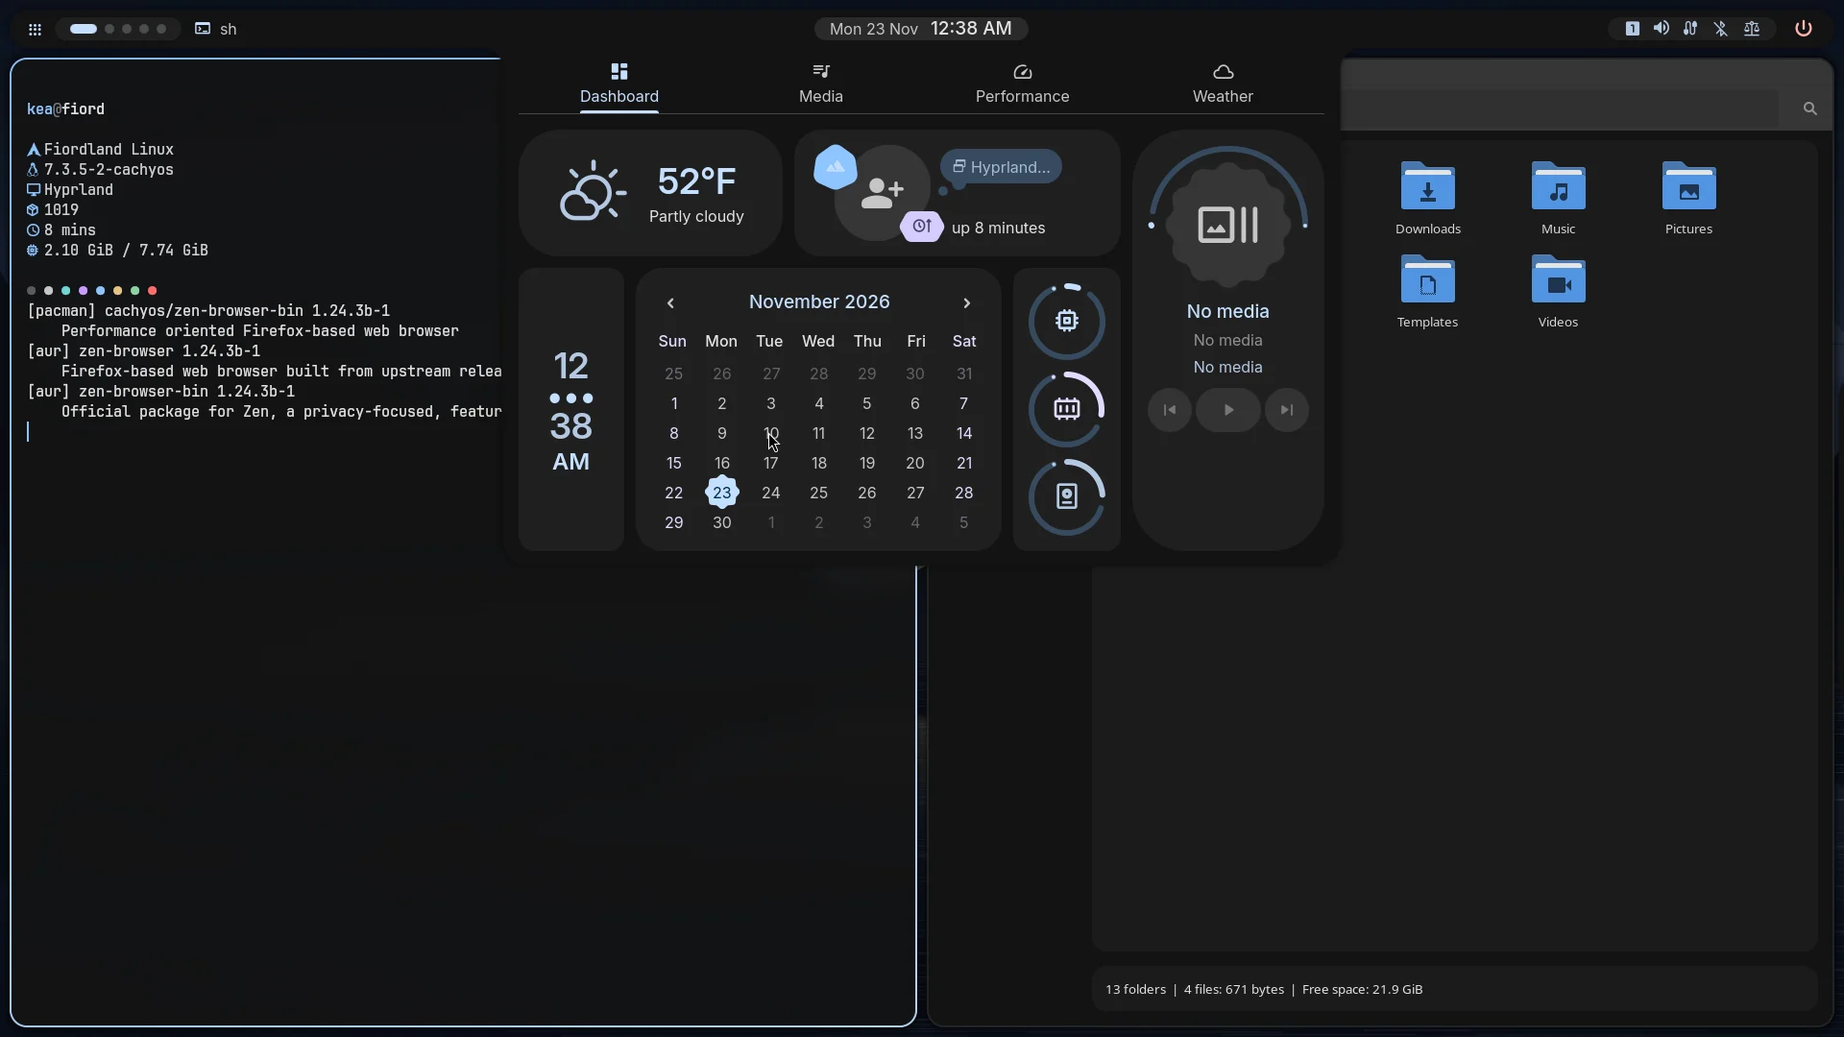
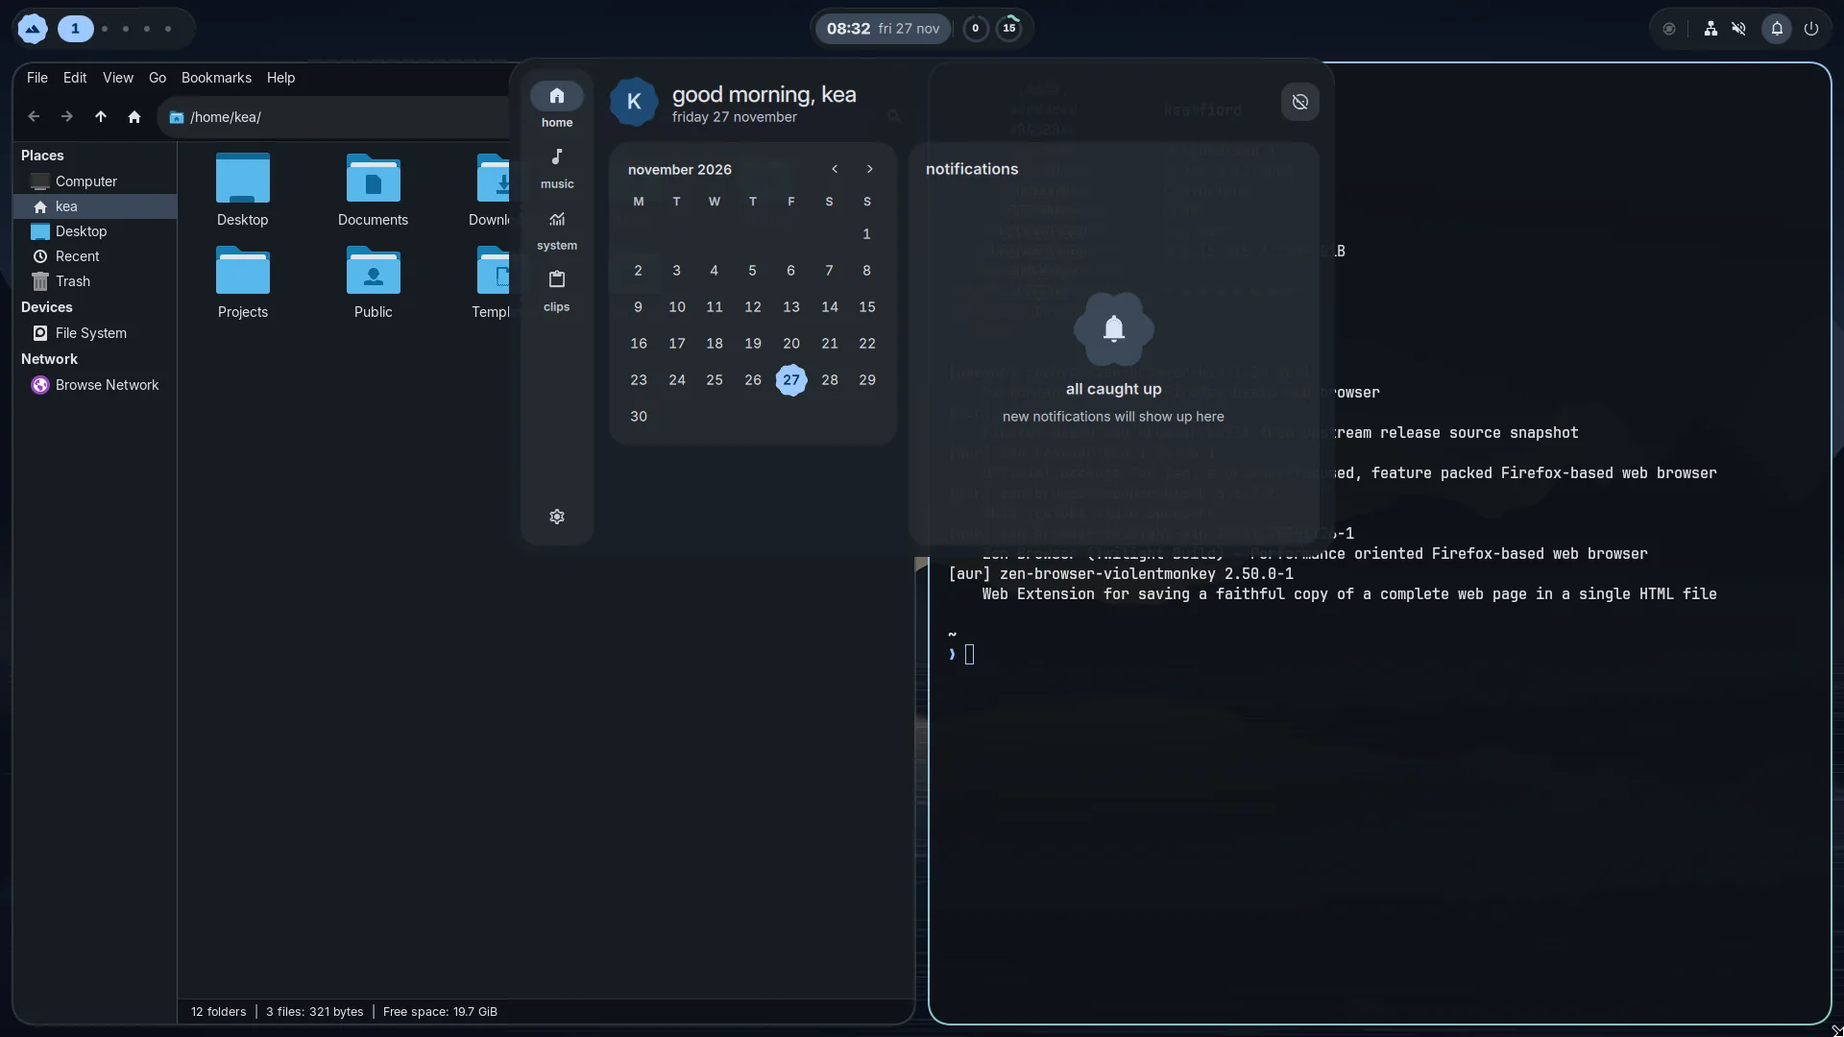
new screenshots, wifi step, news

diff --git a/web/news/index.html b/web/news/index.html
@@ -10,11 +10,11 @@
 <meta property="og:url" content="https://fiordlandlinux.org/news/">
 <meta property="og:title" content="Fiordland news">
 <meta property="og:description" content="Release notes for each Fiordland version.">
-<meta property="og:image" content="https://fiordlandlinux.org/assets/og.png?v=5">
+<meta property="og:image" content="https://fiordlandlinux.org/assets/og.png?v=6">
 <meta property="og:site_name" content="Fiordland Linux">
 <meta property="og:type" content="website">
 <meta name="twitter:card" content="summary_large_image">
-<meta name="twitter:image" content="https://fiordlandlinux.org/assets/og.png?v=5">
+<meta name="twitter:image" content="https://fiordlandlinux.org/assets/og.png?v=6">
 <link rel="preload" href="/assets/fonts/inter.woff2" as="font" type="font/woff2" crossorigin>
 <link rel="icon" href="data:,">
 <link rel="stylesheet" href="/assets/site.css?v=19">
@@ -42,7 +42,7 @@
   <section class="msec" id="v1.0.0">
     <h2 class="h3">Fiordland 1</h2>
     <p class="eyebrow">2026-11-26 &middot; <a href="/news/1.0.0.txt">plain text</a></p>
-    <ul class="dlist"><li>Fiordland is out of beta. Installed systems move to Fiordland 1 with a normal update; nothing needs reinstalling.</li><li>New linux-fiord kernel, our fork of the CachyOS kernel with BORE, built for the x86-64 baseline so it also runs on older CPUs. Pick it in the installer or switch with sudo fiordland kernel fiord.</li><li>crest 1, a new Hyprland shell in the Material 3 Expressive style, with crest-greeter as its login screen.</li><li>tawaki 1.0, kuaka 1.0 and weka 1.1: one command for the Arch repos, Flathub and the AUR, a redesigned update manager with tray notices, and a redesigned desktop switcher.</li><li>The rawaru installer 2.0 is redesigned, checks your disk and settings before it starts, and has a Low-end PC switch.</li><li>Restarting and shutting down no longer hang. Services get 10 seconds to stop (your own apps 5), and if something still blocks, the system restarts anyway after 3 minutes instead of waiting forever.</li><li>Faster start: the boot no longer waits for the network, and the Btrfs snapshot watcher and mirror refresh run in the background.</li><li>New fiordland-tune picks lighter settings on its own on PCs with less than 4 GB of memory, two CPU threads or no graphics acceleration. Switch by hand with sudo fiordland-tune apply low-end, balanced or performance. Try the sched_ext schedulers with sudo fiordland-tune scx lavd (needs scx-scheds).</li><li>One front door: fiordland version, news, tune, report, channel, kernel and dns. fiordland report collects details for a bug report; nothing is uploaded.</li><li>Now included: firewall on by default, printing with network printer discovery, Bluetooth, firmware updates (fwupd), disk health tools, CJK and emoji fonts, audio and video codecs with hardware decoding, plocate, and monthly Btrfs scrubs. Snapshots from updates are trimmed to the newest 10.</li><li>Optional: encrypted DNS with sudo fiordland dns tls and a Btrfs swap file with sudo fiordland-tune swapfile 8.</li></ul>
+    <ul class="dlist"><li>Fiordland is out of beta. Installed systems move to Fiordland 1 with a normal update; nothing needs reinstalling.</li><li>New linux-fiord kernel, our fork of the CachyOS kernel with BORE, built for the x86-64 baseline so it also runs on older CPUs. Pick it in the installer or switch with sudo fiordland kernel fiord.</li><li>crest 1, a new Hyprland shell in the Material 3 Expressive style, with crest-greeter as its login screen.</li><li>tawaki 1.0, kuaka 1.0 and weka 1.1: one command for the Arch repos, Flathub and the AUR, a redesigned update manager with tray notices, and a redesigned desktop switcher.</li><li>The rawaru installer 2.0 is redesigned, checks your disk and settings before it starts, and has a Low-end PC switch.</li><li>Restarting and shutting down no longer hang. Services get 10 seconds to stop (your own apps 5), and if something still blocks, the system restarts anyway after 3 minutes instead of waiting forever.</li><li>Faster start: the boot no longer waits for the network, and the Btrfs snapshot watcher and mirror refresh run in the background.</li><li>New fiordland-tune picks lighter settings on its own on PCs with less than 4 GB of memory, two CPU threads or no graphics acceleration. Switch by hand with sudo fiordland-tune apply low-end, balanced or performance. Try the sched_ext schedulers with sudo fiordland-tune scx lavd (needs scx-scheds).</li><li>One front door: fiordland version, news, tune, report, channel, kernel and dns. fiordland report collects details for a bug report; nothing is uploaded.</li><li>Now included: firewall on by default, printing with network printer discovery, Bluetooth, firmware updates (fwupd), disk health tools, CJK and emoji fonts, audio and video codecs with hardware decoding, plocate, and monthly Btrfs scrubs. Snapshots from updates are trimmed to the newest 10.</li><li>Optional: encrypted DNS with sudo fiordland dns tls and a Btrfs swap file with sudo fiordland-tune swapfile 8.</li><li>Updated install image 2026.11.26-3: the installer asks you to join Wi&#8209;Fi before it starts, retries slow downloads, and the crest lock screen accepts your password every time.</li></ul>
   </section>
   <section class="msec" id="v0.9.1">
     <h2 class="h3">Fiordland 0.9.1</h2>

diff --git a/web/index.html b/web/index.html
@@ -11,9 +11,9 @@
 <meta property="og:url" content="https://fiordlandlinux.org/">
 <meta property="og:title" content="Fiordland Linux">
 <meta property="og:description" content="A fast, stable Arch-based Linux distro for low-end and high-end PCs, with its own kernel, package manager, installer and desktop.">
-<meta property="og:image" content="https://fiordlandlinux.org/assets/og.png?v=5">
+<meta property="og:image" content="https://fiordlandlinux.org/assets/og.png?v=6">
 <meta property="og:site_name" content="Fiordland Linux">
-<meta name="twitter:image" content="https://fiordlandlinux.org/assets/og.png?v=5">
+<meta name="twitter:image" content="https://fiordlandlinux.org/assets/og.png?v=6">
 <meta property="og:image:width" content="1200">
 <meta property="og:image:height" content="630">
 <meta property="og:type" content="website">
@@ -67,13 +67,13 @@
     <div class="frame">
       <div class="frame-bar" aria-hidden="true"><i></i><i></i><i></i></div>
       <figure role="tabpanel" id="p-plasma" aria-labelledby="t-plasma">
-        <img src="/assets/shots/plasma.webp" alt="KDE Plasma with Breeze Dark, Dolphin and Konsole running tawaki search" width="1920" height="1080">
+        <img src="/assets/shots/plasma.webp?v=2" alt="KDE Plasma with Breeze Dark, Dolphin and Konsole running tawaki search" width="1920" height="1080">
       </figure>
       <figure role="tabpanel" id="p-niri" aria-labelledby="t-niri" hidden>
-        <img src="/assets/shots/niri.webp" alt="niri with the Noctalia bar, tawaki search results and btop in two columns" width="1920" height="1080" loading="lazy">
+        <img src="/assets/shots/niri.webp?v=2" alt="niri with the Noctalia bar, tawaki search results and btop in two columns" width="1920" height="1080" loading="lazy">
       </figure>
       <figure role="tabpanel" id="p-hypr" aria-labelledby="t-hypr" hidden>
-        <img src="/assets/shots/hyprland.webp" alt="Hyprland with crest, the Fiordland shell, showing its dashboard over kitty and Thunar" width="1920" height="1080" loading="lazy">
+        <img src="/assets/shots/hyprland.webp?v=2" alt="Hyprland with crest, the Fiordland shell, showing its dashboard over kitty and Thunar" width="1920" height="1080" loading="lazy">
       </figure>
     </div>
     <p class="cap">Real screenshots from a fresh install. Pick one of 24 desktops and window managers in the installer.</p>
@@ -98,9 +98,9 @@
       <article class="card c-rawaru rise">
         <div class="card-in">
           <h3>rawaru</h3>
-          <p>Graphical installer. Ranks mirrors, detects the GPU and offers dotfiles for each window manager.</p>
+          <p>Graphical installer. Gets you online over Wi&#8209;Fi first, ranks mirrors, detects the GPU and offers dotfiles for each window manager.</p>
         </div>
-        <img class="peek" src="/assets/shots/installer.webp" alt="The rawaru installer on the desktop step, with Hyprland and its shell options" width="2080" height="1400" loading="lazy">
+        <img class="peek" src="/assets/shots/installer.webp?v=2" alt="The rawaru installer on the desktop step, with Hyprland and its shell options" width="2080" height="1400" loading="lazy">
       </article>
       <article class="card c-crest rise">
         <div class="card-in">

diff --git a/web/docs/install/index.html b/web/docs/install/index.html
@@ -10,11 +10,11 @@
 <meta property="og:url" content="https://fiordlandlinux.org/docs/install/">
 <meta property="og:title" content="Install Fiordland">
 <meta property="og:description" content="Make a USB stick, boot it and run the installer.">
-<meta property="og:image" content="https://fiordlandlinux.org/assets/og.png?v=5">
+<meta property="og:image" content="https://fiordlandlinux.org/assets/og.png?v=6">
 <meta property="og:site_name" content="Fiordland Linux">
 <meta property="og:type" content="website">
 <meta name="twitter:card" content="summary_large_image">
-<meta name="twitter:image" content="https://fiordlandlinux.org/assets/og.png?v=5">
+<meta name="twitter:image" content="https://fiordlandlinux.org/assets/og.png?v=6">
 <meta property="og:image:width" content="1200">
 <meta property="og:image:height" content="630">
 <link rel="preload" href="/assets/fonts/inter.woff2" as="font" type="font/woff2" crossorigin>
@@ -52,7 +52,7 @@
       <li><h3>Download the ISO</h3><p>Get it from the <a href="/">home page</a>. The SHA-256 checksum is listed under the download button. On Linux, check it with:</p><pre class="term">sha256sum fiordland-*.iso</pre></li>
       <li><h3>Write it to a USB stick</h3><p>On Windows use <a href="https://rufus.ie">Rufus</a> and pick <em>DD image mode</em> when it asks. On macOS or Windows, <a href="https://etcher.balena.io">balenaEtcher</a> also works. On Linux:</p><pre class="term">sudo dd if=fiordland-*.iso of=/dev/sdX bs=4M status=progress oflag=sync</pre><p>Replace <code>sdX</code> with the USB stick. <code>lsblk</code> lists your drives. Picking the wrong one erases it.</p></li>
       <li><h3>Boot from the stick</h3><p>Restart and press the boot menu key while the logo shows. It is usually F12, F11, F8, Esc or F2. Turn off <strong>Secure Boot</strong> in the firmware settings first; Fiordland's boot files are not signed yet.</p></li>
-      <li><h3>Run the installer</h3><p>The live desktop opens the installer by itself. Pick your language, keyboard, timezone, the disk (the whole disk, alongside Windows with a slider for the size, or partitions you choose, with a partition editor one click away), your account and a desktop. KDE Plasma is the default and the easiest switch from Windows. The review page lets you change the graphics driver and kernel before anything is written.</p></li>
+      <li><h3>Run the installer</h3><p>The live desktop opens the installer by itself. Packages download during the install, so if you are not on a cable it asks you to join a Wi&#8209;Fi network first. Pick your language, keyboard, timezone, the disk (the whole disk, alongside Windows with a slider for the size, or partitions you choose, with a partition editor one click away), your account and a desktop. KDE Plasma is the default and the easiest switch from Windows. The review page lets you change the graphics driver and kernel before anything is written.</p></li>
       <li><h3>Restart</h3><p>Packages download fresh, so the install takes 5 to 20 minutes. Remove the USB stick when the computer restarts.</p></li>
     </ol>
   </section>

diff --git a/web/compare/index.html b/web/compare/index.html
@@ -10,11 +10,11 @@
 <meta property="og:url" content="https://fiordlandlinux.org/compare/">
 <meta property="og:title" content="Fiordland, CachyOS and Arch">
 <meta property="og:description" content="Fiordland Linux next to CachyOS and Arch Linux: what each sets up after a default install.">
-<meta property="og:image" content="https://fiordlandlinux.org/assets/og.png?v=5">
+<meta property="og:image" content="https://fiordlandlinux.org/assets/og.png?v=6">
 <meta property="og:site_name" content="Fiordland Linux">
 <meta property="og:type" content="website">
 <meta name="twitter:card" content="summary_large_image">
-<meta name="twitter:image" content="https://fiordlandlinux.org/assets/og.png?v=5">
+<meta name="twitter:image" content="https://fiordlandlinux.org/assets/og.png?v=6">
 <meta property="og:image:width" content="1200">
 <meta property="og:image:height" content="630">
 <link rel="preload" href="/assets/fonts/inter.woff2" as="font" type="font/woff2" crossorigin>
@@ -61,7 +61,7 @@
       <tr><th scope="row">Picks lighter settings by itself on low-end PCs</th><td class="y f" aria-label="Yes">&#10003;</td><td class="n" aria-label="No">&#10007;</td><td class="n" aria-label="No">&#10007;</td></tr>
       <tr><th scope="row">One-command bug report with names removed</th><td class="y f" aria-label="Yes">&#10003;</td><td class="n" aria-label="No">&#10007;</td><td class="n" aria-label="No">&#10007;</td></tr>
       <tr><th scope="row">CachyOS kernel and stock Arch kernel also offered in the installer</th><td class="y f" aria-label="Yes">&#10003;</td><td class="p">CachyOS kernels only</td><td class="n" aria-label="No">&#10007;</td></tr>
-      <tr><th scope="row">Its own Hyprland shell, crest</th><td class="y f" aria-label="Yes">&#10003;</td><td class="n" aria-label="No">&#10007;</td><td class="n" aria-label="No">&#10007;</td></tr>
+      <tr><th scope="row">Its own Hyprland shell, crest, with a matching login and lock screen</th><td class="y f" aria-label="Yes">&#10003;</td><td class="n" aria-label="No">&#10007;</td><td class="n" aria-label="No">&#10007;</td></tr>
       <tr class="g"><th colspan="4" scope="colgroup">Shared with CachyOS</th></tr>
       <tr><th scope="row">Graphical installer</th><td class="y f" aria-label="Yes">&#10003;</td><td class="y" aria-label="Yes">&#10003;</td><td class="p">Text installer</td></tr>
       <tr><th scope="row">CachyOS kernel</th><td class="y f" aria-label="Yes">&#10003;</td><td class="y" aria-label="Yes">&#10003;</td><td class="n" aria-label="No">&#10007;</td></tr>

diff --git a/web/low-end/index.html b/web/low-end/index.html
@@ -10,11 +10,11 @@
 <meta property="og:url" content="https://fiordlandlinux.org/low-end/">
 <meta property="og:title" content="Fiordland on old and low-end PCs">
 <meta property="og:description" content="Fiordland Linux tunes itself for old laptops and low-end PCs: a low-end installer option, automatic memory tuning and light desktops.">
-<meta property="og:image" content="https://fiordlandlinux.org/assets/og.png?v=5">
+<meta property="og:image" content="https://fiordlandlinux.org/assets/og.png?v=6">
 <meta property="og:site_name" content="Fiordland Linux">
 <meta property="og:type" content="website">
 <meta name="twitter:card" content="summary_large_image">
-<meta name="twitter:image" content="https://fiordlandlinux.org/assets/og.png?v=5">
+<meta name="twitter:image" content="https://fiordlandlinux.org/assets/og.png?v=6">
 <meta property="og:image:width" content="1200">
 <meta property="og:image:height" content="630">
 <link rel="preload" href="/assets/fonts/inter.woff2" as="font" type="font/woff2" crossorigin>

diff --git a/web/why/index.html b/web/why/index.html
@@ -10,11 +10,11 @@
 <meta property="og:url" content="https://fiordlandlinux.org/why/">
 <meta property="og:title" content="Why Fiordland, if you already run CachyOS">
 <meta property="og:description" content="What Fiordland Linux adds over CachyOS, what both share, and where CachyOS is ahead.">
-<meta property="og:image" content="https://fiordlandlinux.org/assets/og.png?v=5">
+<meta property="og:image" content="https://fiordlandlinux.org/assets/og.png?v=6">
 <meta property="og:site_name" content="Fiordland Linux">
 <meta property="og:type" content="website">
 <meta name="twitter:card" content="summary_large_image">
-<meta name="twitter:image" content="https://fiordlandlinux.org/assets/og.png?v=5">
+<meta name="twitter:image" content="https://fiordlandlinux.org/assets/og.png?v=6">
 <meta property="og:image:width" content="1200">
 <meta property="og:image:height" content="630">
 <link rel="preload" href="/assets/fonts/inter.woff2" as="font" type="font/woff2" crossorigin>

diff --git a/web/docs/updates/index.html b/web/docs/updates/index.html
@@ -10,11 +10,11 @@
 <meta property="og:url" content="https://fiordlandlinux.org/docs/updates/">
 <meta property="og:title" content="Updates">
 <meta property="og:description" content="Keep the system current and what to do when an update goes wrong.">
-<meta property="og:image" content="https://fiordlandlinux.org/assets/og.png?v=5">
+<meta property="og:image" content="https://fiordlandlinux.org/assets/og.png?v=6">
 <meta property="og:site_name" content="Fiordland Linux">
 <meta property="og:type" content="website">
 <meta name="twitter:card" content="summary_large_image">
-<meta name="twitter:image" content="https://fiordlandlinux.org/assets/og.png?v=5">
+<meta name="twitter:image" content="https://fiordlandlinux.org/assets/og.png?v=6">
 <meta property="og:image:width" content="1200">
 <meta property="og:image:height" content="630">
 <link rel="preload" href="/assets/fonts/inter.woff2" as="font" type="font/woff2" crossorigin>

diff --git a/web/mirrors/index.html b/web/mirrors/index.html
@@ -10,11 +10,11 @@
 <meta property="og:url" content="https://fiordlandlinux.org/mirrors/">
 <meta property="og:title" content="Fiordland mirrors">
 <meta property="og:description" content="Servers that carry the Fiordland package repo and ISOs.">
-<meta property="og:image" content="https://fiordlandlinux.org/assets/og.png?v=5">
+<meta property="og:image" content="https://fiordlandlinux.org/assets/og.png?v=6">
 <meta property="og:site_name" content="Fiordland Linux">
 <meta property="og:type" content="website">
 <meta name="twitter:card" content="summary_large_image">
-<meta name="twitter:image" content="https://fiordlandlinux.org/assets/og.png?v=5">
+<meta name="twitter:image" content="https://fiordlandlinux.org/assets/og.png?v=6">
 <meta property="og:image:width" content="1200">
 <meta property="og:image:height" content="630">
 <link rel="preload" href="/assets/fonts/inter.woff2" as="font" type="font/woff2" crossorigin>

diff --git a/web/docs/snapshots/index.html b/web/docs/snapshots/index.html
@@ -10,11 +10,11 @@
 <meta property="og:url" content="https://fiordlandlinux.org/docs/snapshots/">
 <meta property="og:title" content="Snapshots and rollback">
 <meta property="og:description" content="Undo a bad update with Btrfs snapshots.">
-<meta property="og:image" content="https://fiordlandlinux.org/assets/og.png?v=5">
+<meta property="og:image" content="https://fiordlandlinux.org/assets/og.png?v=6">
 <meta property="og:site_name" content="Fiordland Linux">
 <meta property="og:type" content="website">
 <meta name="twitter:card" content="summary_large_image">
-<meta name="twitter:image" content="https://fiordlandlinux.org/assets/og.png?v=5">
+<meta name="twitter:image" content="https://fiordlandlinux.org/assets/og.png?v=6">
 <meta property="og:image:width" content="1200">
 <meta property="og:image:height" content="630">
 <link rel="preload" href="/assets/fonts/inter.woff2" as="font" type="font/woff2" crossorigin>

diff --git a/web/docs/apps/index.html b/web/docs/apps/index.html
@@ -10,11 +10,11 @@
 <meta property="og:url" content="https://fiordlandlinux.org/docs/apps/">
 <meta property="og:title" content="Installing apps">
 <meta property="og:description" content="Find, install, update and remove apps with tawaki.">
-<meta property="og:image" content="https://fiordlandlinux.org/assets/og.png?v=5">
+<meta property="og:image" content="https://fiordlandlinux.org/assets/og.png?v=6">
 <meta property="og:site_name" content="Fiordland Linux">
 <meta property="og:type" content="website">
 <meta name="twitter:card" content="summary_large_image">
-<meta name="twitter:image" content="https://fiordlandlinux.org/assets/og.png?v=5">
+<meta name="twitter:image" content="https://fiordlandlinux.org/assets/og.png?v=6">
 <meta property="og:image:width" content="1200">
 <meta property="og:image:height" content="630">
 <link rel="preload" href="/assets/fonts/inter.woff2" as="font" type="font/woff2" crossorigin>

diff --git a/web/docs/help/index.html b/web/docs/help/index.html
@@ -10,11 +10,11 @@
 <meta property="og:url" content="https://fiordlandlinux.org/docs/help/">
 <meta property="og:title" content="Getting help">
 <meta property="og:description" content="Where to ask, and what to include so people can help.">
-<meta property="og:image" content="https://fiordlandlinux.org/assets/og.png?v=5">
+<meta property="og:image" content="https://fiordlandlinux.org/assets/og.png?v=6">
 <meta property="og:site_name" content="Fiordland Linux">
 <meta property="og:type" content="website">
 <meta name="twitter:card" content="summary_large_image">
-<meta name="twitter:image" content="https://fiordlandlinux.org/assets/og.png?v=5">
+<meta name="twitter:image" content="https://fiordlandlinux.org/assets/og.png?v=6">
 <meta property="og:image:width" content="1200">
 <meta property="og:image:height" content="630">
 <link rel="preload" href="/assets/fonts/inter.woff2" as="font" type="font/woff2" crossorigin>

diff --git a/web/docs/index.html b/web/docs/index.html
@@ -10,11 +10,11 @@
 <meta property="og:url" content="https://fiordlandlinux.org/docs/">
 <meta property="og:title" content="Documentation">
 <meta property="og:description" content="Official guides for installing and using Fiordland Linux.">
-<meta property="og:image" content="https://fiordlandlinux.org/assets/og.png?v=5">
+<meta property="og:image" content="https://fiordlandlinux.org/assets/og.png?v=6">
 <meta property="og:site_name" content="Fiordland Linux">
 <meta property="og:type" content="website">
 <meta name="twitter:card" content="summary_large_image">
-<meta name="twitter:image" content="https://fiordlandlinux.org/assets/og.png?v=5">
+<meta name="twitter:image" content="https://fiordlandlinux.org/assets/og.png?v=6">
 <meta property="og:image:width" content="1200">
 <meta property="og:image:height" content="630">
 <link rel="preload" href="/assets/fonts/inter.woff2" as="font" type="font/woff2" crossorigin>
